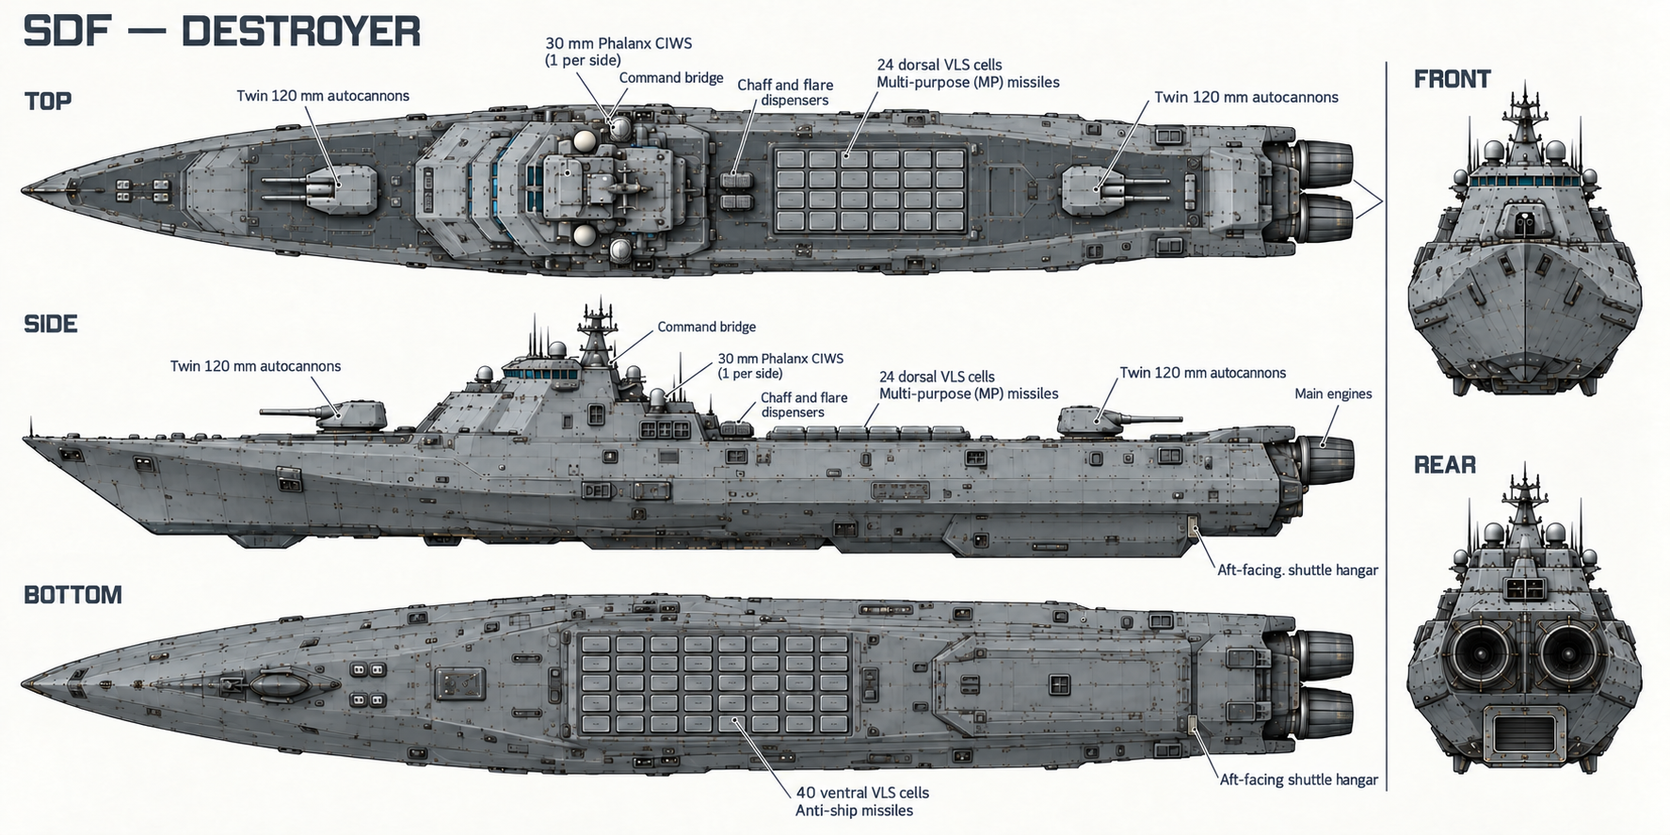
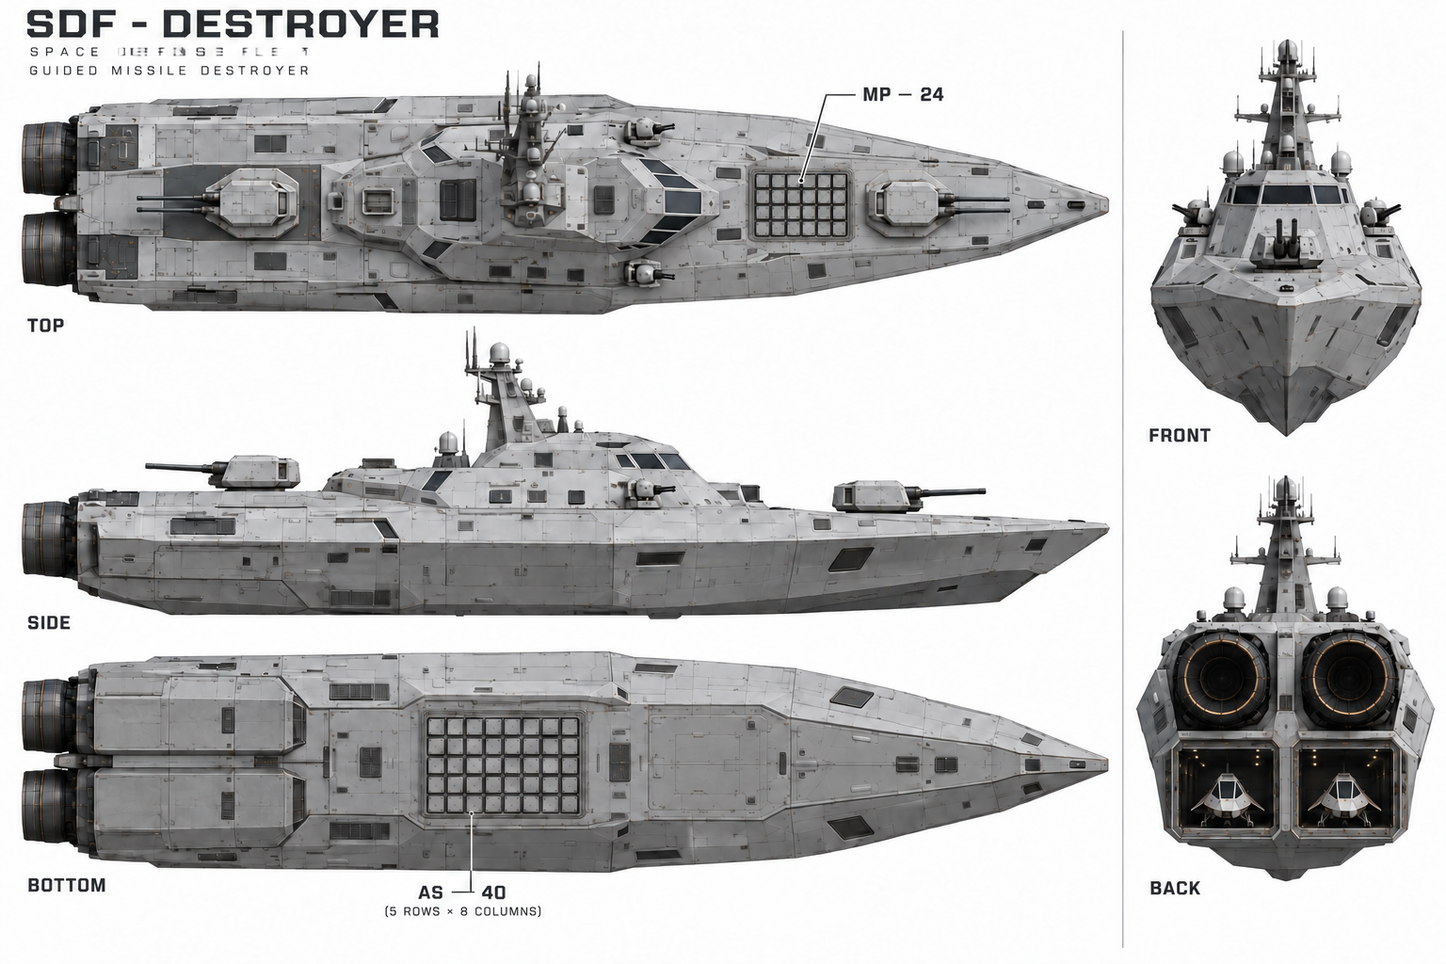
Add start screen and automatic Engineering repairs
Add mission, continue, save-loading, history, and help menus with paused return to command. Enable automatic repairs with persistent manual overrides and save compatibility. Refresh ship artwork, retain the referenced privateer filename, and include UI previews.

diff --git a/index.html b/index.html
@@ -9,15 +9,35 @@
   <link rel="stylesheet" href="styles.css">
   <link rel="stylesheet" href="viewport.css">
   <link rel="stylesheet" href="bridge.css">
+  <link rel="stylesheet" href="start-screen.css">
 </head>
-<body data-view="map" data-screen="map">
-  <header class="topbar">
+<body data-view="map" data-screen="map" data-menu="open">
+  <section id="start-screen" class="start-screen" aria-labelledby="start-title">
+    <div class="start-art">
+      <div class="start-orbits" aria-hidden="true"><i></i><i></i><i></i><span>✧</span></div>
+      <figure class="start-vessel"><img src="images/sdf-frigate-angled.png" alt="SDF Wayfarer, a Vanguard-class frigate, against the dark of space"><figcaption><span>SDF WAYFARER</span> VANGUARD-CLASS FRIGATE / YOUR FIRST COMMAND</figcaption></figure>
+    </div>
+    <header class="start-masthead"><span>✧ &nbsp; SOL DEFENSE FORCE</span><span>SOL SYSTEM / 2250</span></header>
+    <div class="start-content">
+      <div class="start-intro"><div class="eyebrow">STRATEGIC SPACE COMMAND</div><h1 id="start-title">SOL DEFENSE<br><span>FORCE</span></h1><p>A frontier to protect.<br>A ship to command.</p></div>
+      <nav class="start-actions" aria-label="Main menu">
+        <button id="continue-mission" class="start-continue" hidden><span>Continue<small id="continue-summary">Return to your patrol</small></span><b aria-hidden="true">↗</b></button>
+        <button id="new-mission"><span>New Mission<small>Take command of the Wayfarer</small></span><b aria-hidden="true">01</b></button>
+        <button id="new-campaign"><span>New Campaign<small>A longer watch · coming soon</small></span><b aria-hidden="true">02</b></button>
+        <button id="menu-load-save"><span>Load Saved Game<small>Restore a patrol from a JSON file</small></span><b aria-hidden="true">03</b></button>
+        <button id="menu-history"><span>History<small>The story of humanity in Sol</small></span><b aria-hidden="true">04</b></button>
+        <button id="menu-how-to-play"><span>How to Play<small>Your first watch, explained</small></span><b aria-hidden="true">05</b></button>
+      </nav>
+    </div>
+    <footer class="start-footer"><span><i class="status-dot"></i> FOR SOL. FOR ALL.</span><span>PHASE 01 <b>/</b> PROTOTYPE v0.1</span></footer>
+  </section>
+  <header class="topbar" inert aria-hidden="true">
     <a class="brand" href="/" aria-label="Sol Defense Force home"><span class="insignia">✧</span><span class="brand-name">SDF<span>SOL DEFENSE FORCE</span></span></a>
-    <nav aria-label="Command navigation"><button class="nav-active" id="map-tab"><span>⌖</span> Strategic map</button><button id="bridge-button"><span>✧</span> Bridge</button><button id="briefing-button"><span>▤</span> Mission briefing</button><button id="saves-button">Saves</button></nav>
+    <nav aria-label="Command navigation"><button id="menu-button">Menu</button><button class="nav-active" id="map-tab"><span>⌖</span> Strategic map</button><button id="bridge-button"><span>✧</span> Bridge</button><button id="briefing-button"><span>▤</span> Mission briefing</button><button id="saves-button">Saves</button></nav>
     <div class="command-status"><i class="status-dot"></i> SOL COMMAND <span class="connection">LINK ESTABLISHED</span></div>
   </header>
 
-  <main>
+  <main inert aria-hidden="true">
     <section class="page-heading"><div><div class="eyebrow">SOL SECTOR / NAVIGATION</div><h1>The watch begins.</h1><p>One system. Our home. Your command.</p></div><div class="date-block"><span class="eyebrow">SHIPBOARD TIME · UTC</span><strong id="stardate">01 JAN 2250 <span>00:00</span></strong><div><i class="status-dot"></i> <span id="clock-state">AWAITING ORDERS</span></div></div></section>
 
     <div class="console-tabs" role="group" aria-label="Console views">
@@ -99,6 +119,44 @@
     </section>
     <footer class="page-footer"><span><i class="status-dot"></i> ALL SYSTEMS OPERATIONAL</span><span>SOL DEFENSE FORCE <b> / </b> STRATEGIC COMMAND INTERFACE <b> / </b> 2250</span><button id="about-button">PROTOTYPE v0.1 <span>↗</span></button></footer>
   </main>
+  <dialog id="new-mission-dialog" aria-labelledby="new-mission-title">
+    <button class="dialog-close" data-close-menu-dialog aria-label="Close new mission">×</button>
+    <div class="eyebrow">MISSION 01 / SOL SYSTEM PATROL</div>
+    <h2 id="new-mission-title">Your first watch.</h2>
+    <p>Take command of the SDF Wayfarer at Earth on 1 January 2250. Plot your own patrol through the Solar System, investigate local contacts, and manage your ship from the bridge.</p>
+    <dl class="menu-facts"><div><dt>Vessel</dt><dd>Vanguard-class frigate</dd></div><div><dt>Departure</dt><dd>Earth / Sol sector</dd></div><div><dt>Assignment</dt><dd>Open patrol &amp; training</dd></div></dl>
+    <p id="new-mission-warning" class="menu-notice" hidden>Starting a new mission replaces your current browser autosave. Download your patrol first if you want to keep it.</p>
+    <button id="backup-before-mission" class="secondary-button" hidden>Download current patrol ↓</button>
+    <p id="mission-backup-status" role="status" aria-live="polite"></p>
+    <button id="launch-mission" class="primary-button">Launch mission <span>↗</span></button>
+  </dialog>
+  <dialog id="campaign-dialog" aria-labelledby="campaign-title">
+    <button class="dialog-close" data-close-menu-dialog aria-label="Close campaign">×</button>
+    <div class="eyebrow">CAMPAIGN / FUTURE OPERATIONS</div>
+    <h2 id="campaign-title">A longer watch.</h2>
+    <p>Campaign mode is not available in this prototype. Linked missions, campaign objectives, and progression have yet to be implemented.</p>
+    <p>You can explore the current game in New Mission: an open Solar System patrol with navigation, bridge stations, training encounters, combat, and ship repairs. Save your patrol to continue it later.</p>
+    <button id="campaign-to-mission" class="primary-button">Explore New Mission <span>↗</span></button>
+  </dialog>
+  <dialog id="history-dialog" class="history-dialog" aria-labelledby="history-title">
+    <button class="dialog-close" data-close-menu-dialog aria-label="Close history">×</button>
+    <div class="eyebrow">SOL COMMAND ARCHIVE / SETTING &amp; BACKSTORY</div>
+    <h2 id="history-title">Our home. Our watch.</h2>
+    <ol class="history-timeline">
+      <li><span>c. 2150</span><div><h3>The cold fusion breakthrough</h3><p>Humanity achieves cold fusion. Over the following century, new propulsion, inertial dampeners, and advanced protective materials open the Solar System to travel.</p></div></li>
+      <li><span>2250</span><div><h3>A system within reach</h3><p>Electromagnetic Pulse Drives now carry ships across the system in a little over a month. Earth has a large station on the Moon; Mars has a surface colony and a station on Phobos.</p></div></li>
+      <li><span>THE FRONTIER</span><div><h3>Beyond the inner worlds</h3><p>Stations on Ganymede, Titan, Titania, and Triton anchor humanity’s presence around the outer planets. Sixteen commercial mining stations operate in the asteroid belt under United Nations of Earth contracts.</p></div></li>
+      <li><span>YOUR WATCH</span><div><h3>Sol Defense Force</h3><p>You are the captain of an SDF vessel patrolling our home system. Civilian traffic, commercial operators, privateers, and pirates share the frontier. From the bridge of the Wayfarer, your watch begins.</p></div></li>
+    </ol>
+    <button class="secondary-button" data-close-menu-dialog>Return to menu</button>
+  </dialog>
+  <dialog id="how-to-play-dialog" aria-labelledby="how-to-play-title">
+    <button class="dialog-close" data-close-menu-dialog aria-label="Close how to play">×</button>
+    <div class="eyebrow">CAPTAIN’S ORIENTATION</div><h2 id="how-to-play-title">Take the conn.</h2>
+    <ol class="menu-instructions"><li><strong>Plot a patrol.</strong> Select a planet, settlement, mining station, or point on the strategic map. Add it to your course, then Engage EPD.</li><li><strong>Set the pace.</strong> Use pause and the 1×, 10×, or 100× controls during transit.</li><li><strong>Work the bridge.</strong> Navigation and Helm control local flight. Tactical manages sensors, target locks, and weapons. Engineering handles damage and station service.</li><li><strong>Keep your progress.</strong> Browser autosave remembers your patrol. Saves downloads a portable JSON backup; Load Saved Game restores one.</li></ol>
+    <p>Returning to the menu pauses strategic and local flight. Continue returns to your patrol with flight paused so you can review your orders.</p>
+    <button class="secondary-button" data-close-menu-dialog>Return to menu</button>
+  </dialog>
   <dialog id="briefing-dialog">
     <button class="dialog-close" id="close-dialog" aria-label="Close briefing">×</button>
     <div class="eyebrow">SOL DEFENSE FORCE / PHASE 01</div>

diff --git a/app.js b/app.js
@@ -4,6 +4,7 @@ import { miningCompanies, miningStations, MINING_SYMBOL_PATH } from './mining.mj
 import { mountBridge } from './bridge.mjs';
 import { createSave, parseSave, SAVE_STORAGE_KEY, LEGACY_SAVE_STORAGE_KEY } from './save-game.mjs';
 import { mountSaves } from './save-ui.mjs';
+import { mountStartMenu } from './start-menu.mjs';
 
 const $ = id => document.getElementById(id);
 const NS = 'http://www.w3.org/2000/svg';
@@ -25,11 +26,13 @@ let bridgeConsole;
 const earth = bodies.find(b => b.id === 'earth');
 let state = { ship:{ x:earth.x, y:earth.y }, location:'Earth', route:[], active:false, paused:false, days:0, speed:1 };
 let savedGame=null,saveLoadError=false,lastAutosave=0;
+let startMenu,missionStarted=false,hasLegacyPatrol=false;
 try{const json=localStorage.getItem(SAVE_STORAGE_KEY)||localStorage.getItem(LEGACY_SAVE_STORAGE_KEY);if(json){savedGame=parseSave(json);state=savedGame.navigation;}}catch{saveLoadError=true;}
 try {
   const saved = savedGame?null:JSON.parse(localStorage.getItem('sdf-navigation-v1'));
   const validPoint = p => p && Number.isFinite(p.x) && Number.isFinite(p.y) && Math.hypot(p.x,p.y) <= EDGE_AU + .01;
   if (saved && validPoint(saved.ship) && Array.isArray(saved.route) && saved.route.length <= 12 && saved.route.every(p => validPoint(p) && typeof p.name === 'string') && Number.isFinite(saved.days) && saved.days >= 0) {
+    hasLegacyPatrol=true;
     state = { ...state, ship:saved.ship, location:typeof saved.location === 'string' ? saved.location : 'Deep space', route:saved.route, days:saved.days, active:!!saved.active && saved.route.length > 0, paused:!!saved.active, speed:[1,10,100].includes(saved.speed) ? saved.speed : 1 };
   }
 } catch { /* Storage may be disabled; the session remains fully playable. */ }
@@ -41,7 +44,7 @@ const fmt = n => n.toFixed(2);
 const formatETA = days => days < 1/24 ? `${Math.max(1,Math.round(days*1440))} min` : days < 1 ? `${(days*24).toFixed(1)} hrs` : `${days.toFixed(1)} days`;
 function node(tag, attrs={}, text) { const el=document.createElementNS(NS,tag); for(const [key,value] of Object.entries(attrs)) el.setAttribute(key,value); if(text!==undefined) el.textContent=text; return el; }
 function captureSave(){return createSave({navigation:state,bridge:bridgeConsole.exportState(),selection:selected,logs});}
-function save() { if(!bridgeConsole)return;try { localStorage.setItem(SAVE_STORAGE_KEY, JSON.stringify(captureSave())); } catch { /* JSON downloads remain available when browser storage is disabled. */ } }
+function save() { if(!bridgeConsole||!missionStarted)return;try { localStorage.setItem(SAVE_STORAGE_KEY, JSON.stringify(captureSave())); } catch { /* JSON downloads remain available when browser storage is disabled. */ } }
 function toast(message) { $('toast').textContent=message; $('toast').classList.add('visible'); clearTimeout(toastTimer); toastTimer=setTimeout(()=>$('toast').classList.remove('visible'),3500); }
 function date() { return new Date(Date.UTC(2250,0,1)+state.days*86400000); }
 function log(message) { logs.unshift({time:date().toISOString().slice(11,16),message}); logs=logs.slice(0,3); $('command-log').replaceChildren(...logs.map(item=>{const li=document.createElement('li');const time=document.createElement('time');time.textContent=item.time;const text=document.createElement('span');text.textContent=item.message;li.append(time,text);return li;})); }
@@ -289,11 +292,13 @@ document.querySelectorAll('.briefing-tabs button').forEach(button=>button.onclic
   document.querySelectorAll('.briefing-tabs button').forEach(item=>item.setAttribute('aria-pressed',String(item===button)));
 });
 for(const id of ['close-dialog','begin-button'])$(id).onclick=()=>$('briefing-dialog').close();
-$('restart-patrol').onclick=()=>{
+function newPatrol(){
+  missionStarted=true;
   state={ship:{x:earth.x,y:earth.y},location:'Earth',route:[],active:false,paused:false,days:0,speed:1};
   bridgeConsole?.resetPatrol();
   logs=[];routePage=0;log('New patrol initialized. Holding at Earth.');select(earth,false);showScreen('map');showView('map');resetView();renderPlan();save();$('briefing-dialog').close();toast('Patrol reset. Ready for your orders, Captain.');
-};
+}
+$('restart-patrol').onclick=newPatrol;
 $('briefing-dialog').addEventListener('click',e=>{if(e.target===$('briefing-dialog')){const r=e.target.getBoundingClientRect();if(e.clientX<r.left||e.clientX>r.right||e.clientY<r.top||e.clientY>r.bottom)e.target.close();}});
 document.addEventListener('visibilitychange',()=>{lastTime=0;save();});
 window.addEventListener('pagehide',save);
@@ -303,6 +308,7 @@ window.addEventListener('resize',()=>{
 });
 function frame(time){
   const elapsed=lastTime?Math.min((time-lastTime)/1000,.25):0;lastTime=time;
+  if(startMenu?.isOpen()){requestAnimationFrame(frame);return;}
   if(state.active&&!state.paused&&elapsed){
     const available=elapsed*.08*state.speed;
     const days=Math.min(available,routeDistance(state.ship,state.route)/EPD_AU_PER_DAY);
@@ -332,14 +338,23 @@ bridgeConsole=mountBridge({
 });
 function restoredSelection(point){return [...bodies,...settlements,...miningStations].find(body=>body.id===point?.id)||point||earth;}
 function restoreSave(game){
+  missionStarted=true;
   state=game.navigation;selected=restoredSelection(game.selection);logs=game.logs.map(item=>({...item}));routePage=0;lastTime=0;
   bridgeConsole.restoreState(game.bridge);select(selected,false);renderPlan();
   const station=game.bridge.settings.selected;showScreen(['navigation','helm','tactical','engineering'].includes(station)?'bridge':'map');showView('map');
   log('JSON save restored. Flight paused.');save();toast('Save loaded. Strategic and local flight are paused.');
+  startMenu?.enter();
 }
 mountSaves({capture:captureSave,restore:restoreSave});
 buildMap();select(restoredSelection(savedGame?.selection),false);renderPlan();
 if(savedGame){logs=savedGame.logs;log('Autosave restored. Flight paused.');}
 else{log(state.active?'Saved journey restored. Transit paused.':'Sol Command link established.');log('Captain on deck. Awaiting orders.');}
 if(saveLoadError)toast('Browser save could not be restored. You can load a JSON backup from Saves.');
+startMenu=mountStartMenu({
+  hasPatrol:()=>missionStarted||!!savedGame||hasLegacyPatrol,
+  summary:()=>`${state.location} · ${date().toLocaleDateString('en-GB',{day:'2-digit',month:'short',year:'numeric',timeZone:'UTC'})} · flight paused`,
+  onPause:()=>{if(state.active)state.paused=true;bridgeConsole.pauseLocal();lastTime=0;updateTelemetry();save();},
+  onEnter:()=>{missionStarted=true;lastTime=0;save();},
+  onNewMission:newPatrol
+});
 requestAnimationFrame(frame);

diff --git a/start-screen.css b/start-screen.css
@@ -1,0 +1,72 @@
+.start-screen {
+  position: fixed; inset: 0; z-index: 10; overflow-y: auto; overflow-x: hidden; isolation: isolate;
+  display: flex; flex-direction: column; padding: 32px clamp(24px, 5vw, 86px) 22px;
+  background: radial-gradient(ellipse at 78% 42%, #20344266, transparent 52%), #080e17;
+  color: #e0e5e8;
+}
+.start-screen::before {
+  content: ''; position: absolute; inset: 0; z-index: -2; pointer-events: none;
+  background-image: radial-gradient(circle, #8bafbf75 .7px, transparent 1px), radial-gradient(circle, #c7b98d60 .6px, transparent 1px);
+  background-size: 113px 137px, 181px 197px; background-position: 31px 40px, 67px 11px; opacity: .5;
+}
+.start-art { position: absolute; inset: 0; overflow: hidden; z-index: -1; isolation: isolate; pointer-events: none; }
+.start-masthead, .start-footer { display: flex; justify-content: space-between; gap: 20px; font: 10px var(--mono); letter-spacing: 2px; color: #8a9cac; }
+.start-masthead { padding-bottom: 22px; border-bottom: 1px solid #8294a326; }
+.start-masthead > :first-child { color: #d5b77c; }
+.start-content { flex: 1; position: relative; z-index: 1; width: min(460px, 47%); padding: clamp(28px, 5vh, 64px) 0 30px; }
+.start-intro .eyebrow { color: #a9bac5; font-size: 9px; letter-spacing: 3px; }
+.start-intro h1 { font-family: var(--display); font-size: clamp(44px, 5.8vw, 86px); line-height: .95; letter-spacing: 3px; font-weight: 500; margin: 18px 0 16px; }
+.start-intro h1 span { color: #d5b77c; letter-spacing: 9px; }
+.start-intro p { font-size: 13px; line-height: 1.7; color: #9aacbb; margin: 0 0 25px; }
+.start-actions { display: flex; flex-direction: column; align-items: stretch; gap: 0; width: 100%; height: auto; margin: 0; }
+.start-actions button { display: flex; width: 100%; align-items: center; justify-content: space-between; text-align: left; padding: 13px 16px; border: 1px solid #718a9b35; border-bottom: 0; background: #0d1823c9; color: #d8e1e6; border-radius: 0; font: 16px var(--body); transition: background .15s, border-color .15s; }
+.start-actions button:last-child { border-bottom: 1px solid #718a9b35; }
+.start-actions button:hover { color: #efd6aa; background: #253441; border-color: #d5b77c99; }
+.start-actions button:focus-visible, .start-screen button:focus-visible { outline: 2px solid #d5b77c; outline-offset: 3px; z-index: 1; }
+.start-actions button span { display: block; }
+.start-actions button small { display: block; margin-top: 5px; font: 10px var(--body); color: #91a4b5; }
+.start-actions button b { font: 10px var(--mono); color: #8d9ba6; font-weight: 400; }
+.start-actions .start-continue { border-color: #d5b77c90; background: #2c2b26; color: #f0d5a2; margin-bottom: 12px; border-bottom: 1px solid #d5b77c90; }
+.start-vessel { position: absolute; width: 63%; top: 50%; right: 0; transform: translateY(-44%); margin: 0; z-index: -1; pointer-events: none; }
+.start-vessel img { display: block; width: 100%; height: auto; filter: drop-shadow(0 28px 32px #0009); mix-blend-mode: screen; opacity: .85; mask-image: linear-gradient(to right, transparent, #000 14%, #000 90%, transparent); }
+.start-vessel figcaption { margin-top: 35px; text-align: center; font: 8px var(--mono); color: #738998; letter-spacing: 1.2px; }
+.start-vessel figcaption span { display: block; color: #cfb884; font-size: 12px; letter-spacing: 3px; margin-bottom: 9px; }
+.start-orbits { position: absolute; width: 740px; height: 740px; right: -70px; top: 44%; transform: translateY(-50%) rotate(-24deg); z-index: -2; pointer-events: none; }
+.start-orbits i { position: absolute; inset: 0; border: 1px solid #8ca6b420; border-radius: 50%; }
+.start-orbits i:nth-child(2) { inset: 80px; border-style: dashed; }
+.start-orbits i:nth-child(3) { inset: 160px; }
+.start-orbits span { position: absolute; top: 10%; left: 23%; font-size: 22px; color: #d5b77c70; }
+.start-footer { margin-top: auto; padding-top: 18px; border-top: 1px solid #8294a326; font-size: 8px; letter-spacing: 1.3px; }
+.start-footer .status-dot { margin-right: 8px; }
+.start-footer b { color: #4d6374; margin: 0 8px; font-weight: 400; }
+#toast { z-index: 20; }
+body[data-menu="open"] > .topbar, body[data-menu="open"] > main { visibility: hidden; }
+#new-mission-dialog, #campaign-dialog, #history-dialog, #how-to-play-dialog { max-height: calc(100dvh - 32px); overflow-y: auto; }
+#new-mission-dialog .primary-button { margin-top: 18px; }
+.menu-facts { border-block: 1px solid #718a9b35; padding: 10px 0; margin: 22px 0; }
+.menu-facts div { display: flex; justify-content: space-between; gap: 16px; font-size: 11px; padding: 7px 0; }
+.menu-facts dt { color: #91a4b5; }.menu-facts dd { margin: 0; text-align: right; }
+.menu-notice { border-left: 2px solid #d5b77c; padding-left: 12px; }
+#mission-backup-status:empty { display: none; }
+.history-dialog { max-width: 680px; }
+.history-timeline { list-style: none; padding: 0; margin: 25px 0; }
+.history-timeline li { display: grid; grid-template-columns: 95px minmax(0, 1fr); gap: 18px; border-top: 1px solid #718a9b35; padding: 20px 0 0; }
+.history-timeline li > span { font: 9px var(--mono); color: #d5b77c; letter-spacing: 1px; padding-top: 4px; }
+.history-timeline h3 { font-size: 17px; font-weight: 500; margin: 0; }
+.history-timeline p { line-height: 1.8; margin: 8px 0 20px; }
+.menu-instructions { padding-left: 20px; font-size: 12px; line-height: 1.8; color: #a2afbf; }
+.menu-instructions li { padding-left: 6px; margin-bottom: 16px; }.menu-instructions strong { color: #e0e5e8; }
+@media (min-width: 900px) and (max-height: 780px) {
+  .start-screen { padding-top: 22px; }.start-content { padding-top: 24px; }
+  .start-intro h1 { font-size: 54px; margin: 12px 0; }.start-intro p { margin-bottom: 15px; font-size: 11px; }
+  .start-actions button { padding-block: 10px; font-size: 14px; }.start-actions button small { font-size: 9px; }
+}
+@media (max-width: 700px) {
+  .start-screen { padding: 22px 22px 18px; }.start-masthead { font-size: 8px; letter-spacing: 1px; }
+  .start-content { width: 100%; max-width: 440px; padding-top: 30px; }.start-intro h1 { font-size: 52px; }
+  .start-intro p { margin-bottom: 20px; }.start-actions button { padding: 13px 15px; }
+  .start-vessel { width: 85%; top: 140px; right: -20%; opacity: .24; transform: none; }
+  .start-vessel figcaption { display: none; }.start-orbits { right: -480px; opacity: .65; }
+  .start-footer { font-size: 7px; letter-spacing: .5px; }.start-footer b { margin: 0 3px; }
+  .history-timeline li { grid-template-columns: 1fr; gap: 10px; }
+}

diff --git a/COMBAT.md b/COMBAT.md
@@ -78,6 +78,8 @@ Hull below 50% causes pressure loss. Critical reactor/power hits can cause a fir
 
 Engineering owns the damage-control screen, repair queue, and docking/service controls. Operations reports spare-parts inventory and teams. Security and Environment can isolate fires and pressure loss. Command and Operations link to Engineering.
 
+Engineering defaults to **Automatic repairs: ON**, including saves created before this setting existed. Repairable damage automatically joins the onboard queue; hull, life support, reactor, power, and engines take priority when new automatic jobs are assigned. Manual orders go ahead of automatic jobs. **Automatic repairs: OFF** stops automatic jobs and preserves manual orders and station service. Canceling an onboard job holds that system out of automatic scheduling; **Repair manually · held** clears its hold and queues a manual order. Re-enabling automatic repairs clears individual holds. The mode, holds, automatic jobs, and partial repair labor persist in JSON saves and browser autosaves. Automatic repairs respect pause, spare-parts limits, field ceilings, and destroyed-system restrictions; they never request docking or station service on your behalf.
+
 Each repair team restores 10 points per simulated minute, or 5 points/minute for 30 seconds after a hit. The queue assigns one job to each available team. Each completed repair block of up to 5 points consumes one whole spare-parts unit; labor toward the next block is retained in saves. Canceling discards unfinished labor but never refunds consumed supplies. No points can be restored onboard once parts run out.
 
 Field repairs stop at 60% hull integrity and 75% equipment integrity. A system at zero requires station replacement. Emergency isolation consumes no spare parts and restores no damage points. Repair jobs and emergencies continue during EPD transit as shipboard time advances; players should contain emergencies before departure.

diff --git a/README.md b/README.md
@@ -12,6 +12,8 @@ npm start
 
 Open http://127.0.0.1:2250. Run navigation checks with `npm test`.
 
+The start screen offers **New Mission**, **Load Saved Game**, **History** (setting and backstory), and **How to Play**. **Continue** appears when a browser patrol is available. New Mission opens a briefing before replacing the browser autosave, with an option to download the current patrol first. **New Campaign** explains that campaign progression is not yet implemented and links to the playable mission. Use **Menu** or the SDF logo to return to the start screen; strategic and local flight pause with their orders retained. Loading a JSON save opens that patrol paused. Merely visiting the start screen does not create or overwrite an autosave.
+
 ## Save games
 
 Open **Saves** in the top navigation. **Save game (.json)** downloads a versioned, readable SDF save. Choose that file and select **Load selected save** to restore it in this browser or another computer running the same save version. Import validates the whole file before changing the current game; malformed, oversized (over 1 MB), and unsupported-version files are rejected. Strategic and local flight restore paused, with their orders retained.
